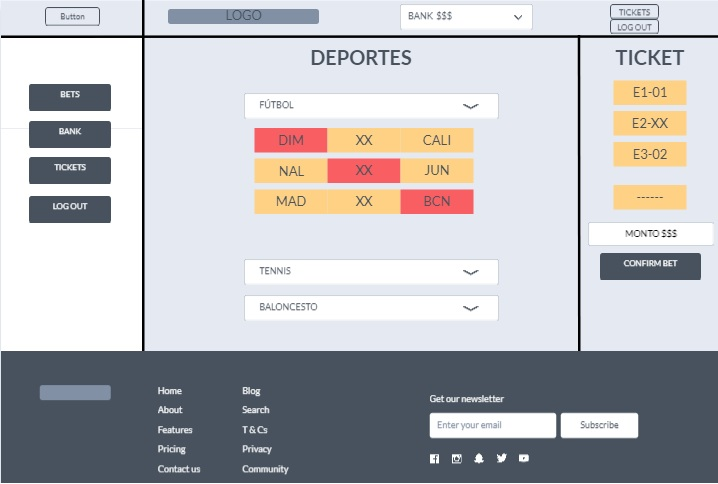
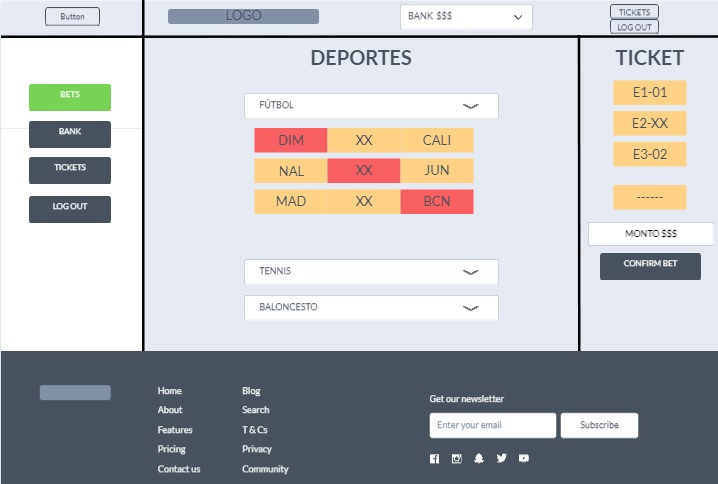
added mockups description

Changed region(s): [[0.0, 0.9917, 1.0, 1.0], [0.0306, 0.155, 0.1532, 0.2479]]

diff --git a/README.md b/README.md
@@ -1,13 +1,39 @@
 ## 9. Mockups
 
+### 9.1
+
+Página de bienvenida, en la que se da la opción de iniciar sesión o registrarse
+en la plataforma
+
 ![Screenshot](home1.jpg)
+
+### 9.2
+
+Página de inicio de sesión
 
 ![Screenshot](home2.jpg)
 
+### 9.3
+
+Vista de un usuario que inició sesión en la platafora. Se observa el menú
+de apuestas
+
 ![Screenshot](logged.jpg)
+
+### 9.4
+
+Vista de un usuario que está realizando una apuesta
 
 ![Screenshot](bets.jpg)
 
+### 9.5
+
+Resumen bancario de la cuenta
+
 ![Screenshot](bank.jpg)
+
+### 9.6
+
+Historial de apuestas realizadas
 
 ![Screenshot](tickets.jpg)
